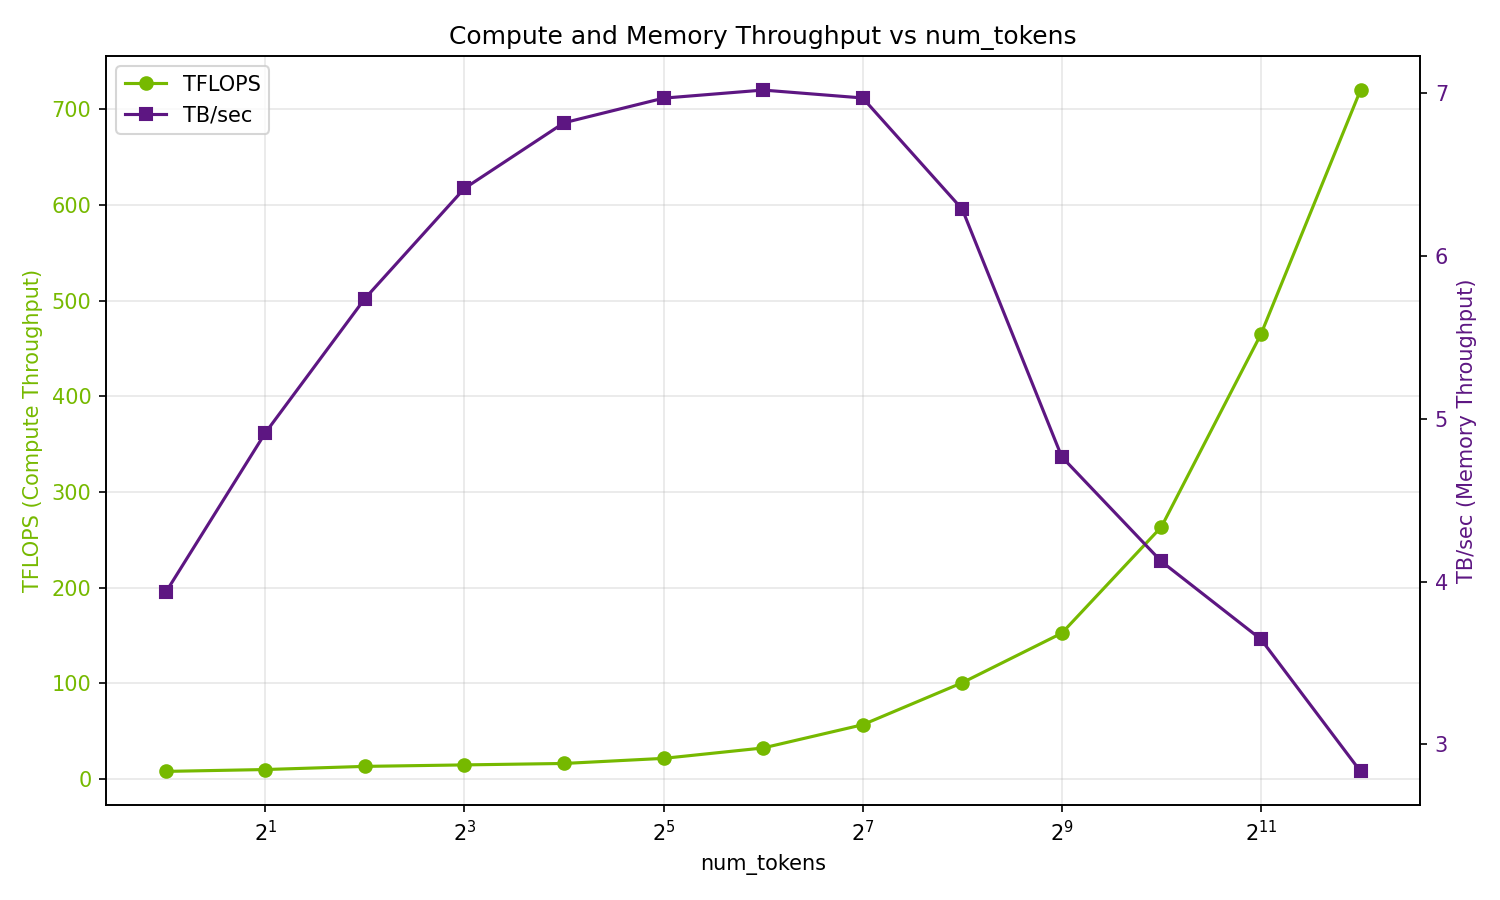
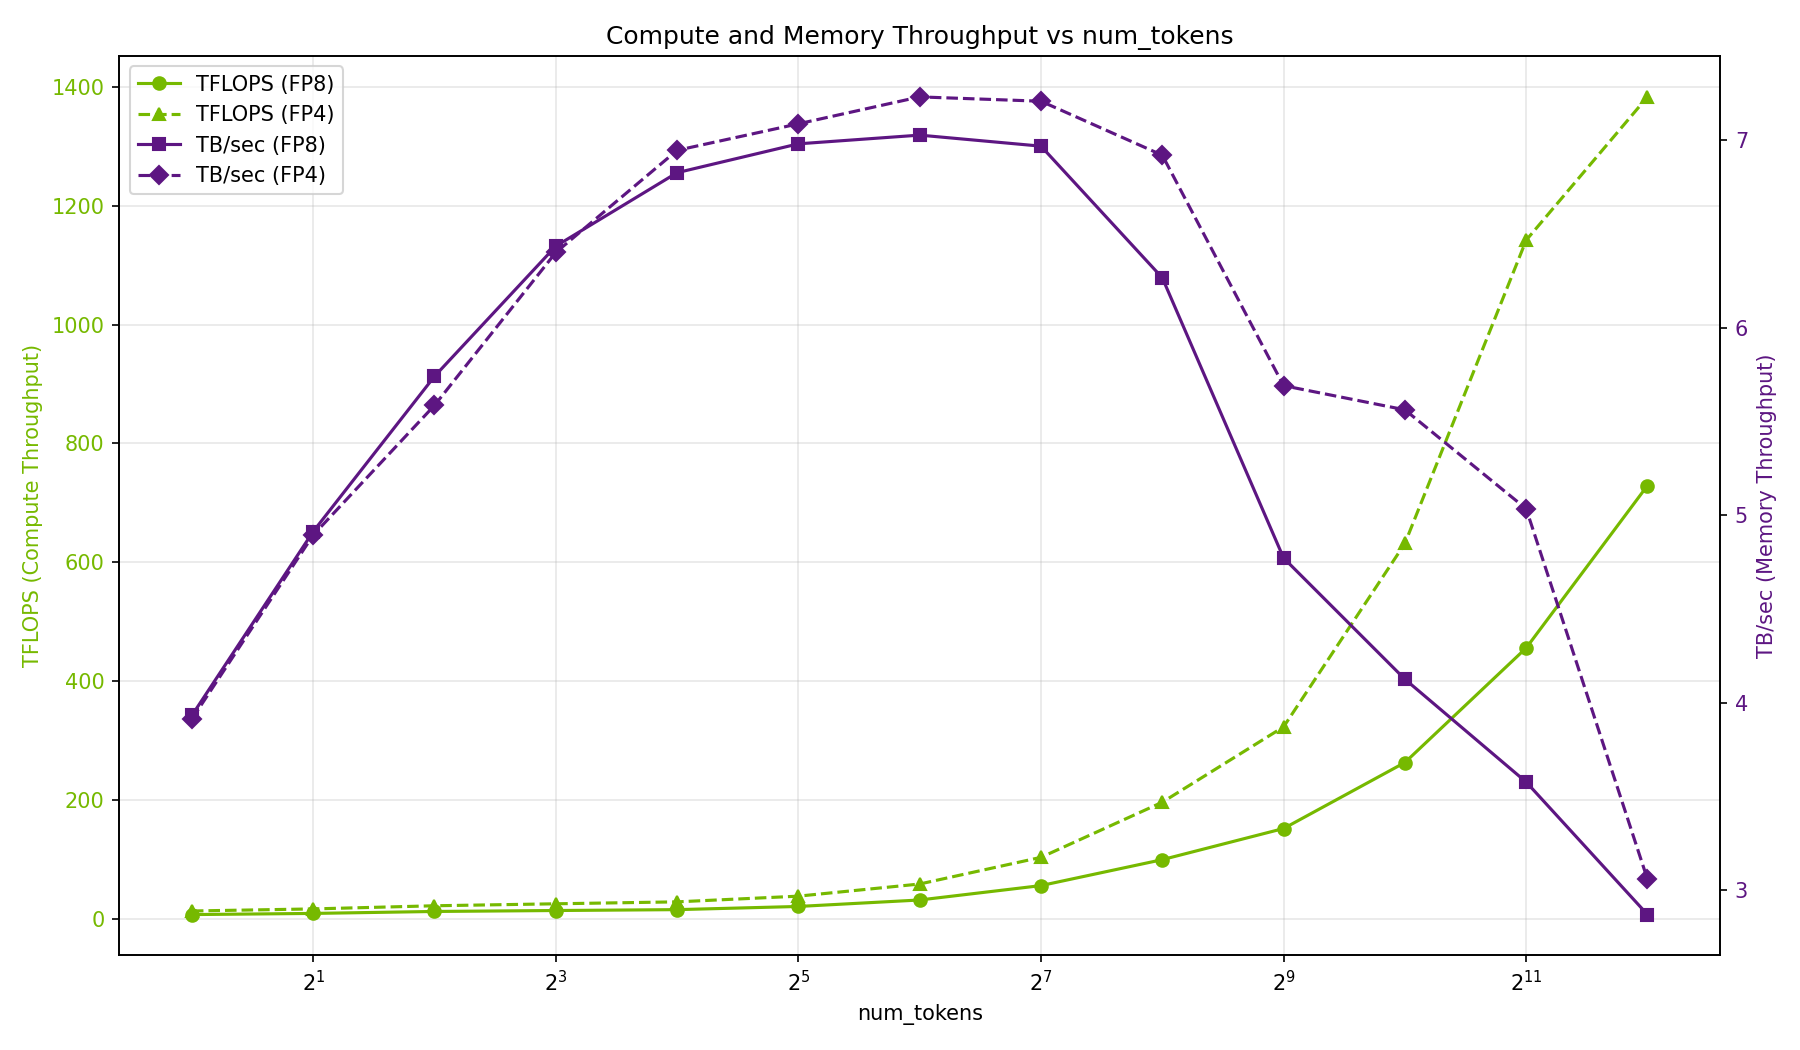
wip

diff --git a/plot_throughput_combined.py b/plot_throughput_combined.py
@@ -1,0 +1,73 @@
+#!/usr/bin/env python3
+"""Plot memory bandwidth comparison between CUTLASS and TRT-LLM backends."""
+
+import pandas as pd
+import matplotlib.pyplot as plt
+
+# Read the CSV files
+df_cutlass = pd.read_csv("ml3_moe_cutlass_out.csv")
+df_trtllm = pd.read_csv("ml3_moe_out.csv")
+
+# Filter CUTLASS data by cutlass_variant
+df_cutlass_fp8 = df_cutlass[df_cutlass["cutlass_variant"] == "fp8"].copy()
+df_cutlass_nvfp4 = df_cutlass[df_cutlass["cutlass_variant"] == "nvfp4"].copy()
+
+# Filter TRT-LLM data by routine
+df_trtllm_fp8 = df_trtllm[df_trtllm["routine"] == "trtllm_fp8_block_scale_moe"].copy()
+df_trtllm_fp4 = df_trtllm[df_trtllm["routine"] == "trtllm_fp4_block_scale_moe"].copy()
+
+# Extract num_tokens (column index 29)
+num_tokens_cutlass_fp8 = df_cutlass_fp8.iloc[:, 29].astype(int)
+num_tokens_cutlass_nvfp4 = df_cutlass_nvfp4.iloc[:, 29].astype(int)
+num_tokens_trtllm_fp8 = df_trtllm_fp8.iloc[:, 29].astype(int)
+num_tokens_trtllm_fp4 = df_trtllm_fp4.iloc[:, 29].astype(int)
+
+# Filter to only include num_tokens <= 1024
+mask_cutlass_fp8 = num_tokens_cutlass_fp8 <= 1024
+mask_cutlass_nvfp4 = num_tokens_cutlass_nvfp4 <= 1024
+mask_trtllm_fp8 = num_tokens_trtllm_fp8 <= 1024
+mask_trtllm_fp4 = num_tokens_trtllm_fp4 <= 1024
+
+# Create figure
+fig, ax = plt.subplots(figsize=(12, 7))
+
+# Colors for backends
+color_cutlass = (118/255, 185/255, 0/255)  # green
+color_trtllm = (93/255, 22/255, 130/255)   # purple
+
+# CUTLASS FP8 - solid line with circles
+ax.plot(num_tokens_cutlass_fp8[mask_cutlass_fp8], 
+        df_cutlass_fp8["tb_per_sec"][mask_cutlass_fp8], 
+        color=color_cutlass, marker="o", linestyle="-", 
+        label="CUTLASS FP8")
+
+# CUTLASS NVFP4 - dashed line with triangles
+ax.plot(num_tokens_cutlass_nvfp4[mask_cutlass_nvfp4], 
+        df_cutlass_nvfp4["tb_per_sec"][mask_cutlass_nvfp4], 
+        color=color_cutlass, marker="^", linestyle="--", 
+        label="CUTLASS NVFP4")
+
+# TRT-LLM FP8 - solid line with squares
+ax.plot(num_tokens_trtllm_fp8[mask_trtllm_fp8], 
+        df_trtllm_fp8["tb_per_sec"][mask_trtllm_fp8], 
+        color=color_trtllm, marker="s", linestyle="-", 
+        label="TensorRT-LLM FP8")
+
+# TRT-LLM FP4 - dashed line with diamonds
+ax.plot(num_tokens_trtllm_fp4[mask_trtllm_fp4], 
+        df_trtllm_fp4["tb_per_sec"][mask_trtllm_fp4], 
+        color=color_trtllm, marker="D", linestyle="--", 
+        label="TensorRT-LLM FP4")
+
+ax.set_xlabel("num_tokens")
+ax.set_ylabel("TB/sec (Memory Throughput)")
+ax.set_xscale("log", base=2)
+ax.legend(loc="upper right")
+ax.grid(True, alpha=0.3)
+
+plt.title("Memory Bandwidth: CUTLASS vs TensorRT-LLM (num_tokens <= 1024)")
+plt.tight_layout()
+plt.savefig("throughput_combined_plot.png", dpi=150)
+plt.show()
+
+print("Plot saved to throughput_combined_plot.png")

diff --git a/plot_throughput_cutlass.py b/plot_throughput_cutlass.py
@@ -1,0 +1,61 @@
+#!/usr/bin/env python3
+"""Plot compute and memory throughput from CUTLASS benchmark results."""
+
+import pandas as pd
+import matplotlib.pyplot as plt
+
+# Read the CSV file
+df = pd.read_csv("ml3_moe_cutlass_out.csv")
+
+# Filter data by cutlass_variant
+df_fp8 = df[df["cutlass_variant"] == "fp8"].copy()
+df_nvfp4 = df[df["cutlass_variant"] == "nvfp4"].copy()
+
+# Extract relevant columns (num_tokens appears multiple times, use iloc[:, 29])
+num_tokens_fp8 = df_fp8.iloc[:, 29].astype(int)
+num_tokens_nvfp4 = df_nvfp4.iloc[:, 29].astype(int)
+
+# Create figure with dual y-axes
+fig, ax1 = plt.subplots(figsize=(12, 7))
+
+# Colors for the two metrics
+color_tflops = (118/255, 185/255, 0/255)  # RGB 118/185/0 (green)
+color_tb = (93/255, 22/255, 130/255)  # RGB 93/22/130 (purple)
+
+# Plot TFLOPS on left y-axis
+ax1.set_xlabel("num_tokens")
+ax1.set_ylabel("TFLOPS (Compute Throughput)", color=color_tflops)
+# FP8 - solid line with circles
+line1 = ax1.plot(num_tokens_fp8, df_fp8["tflops"], color=color_tflops, 
+                  marker="o", linestyle="-", label="TFLOPS (FP8)")
+# NVFP4 - dashed line with triangles
+line2 = ax1.plot(num_tokens_nvfp4, df_nvfp4["tflops"], color=color_tflops, 
+                  marker="^", linestyle="--", label="TFLOPS (NVFP4)")
+ax1.tick_params(axis="y", labelcolor=color_tflops)
+ax1.set_xscale("log", base=2)
+
+# Create second y-axis for memory throughput
+ax2 = ax1.twinx()
+ax2.set_ylabel("TB/sec (Memory Throughput)", color=color_tb)
+# FP8 - solid line with squares
+line3 = ax2.plot(num_tokens_fp8, df_fp8["tb_per_sec"], color=color_tb, 
+                  marker="s", linestyle="-", label="TB/sec (FP8)")
+# NVFP4 - dashed line with diamonds
+line4 = ax2.plot(num_tokens_nvfp4, df_nvfp4["tb_per_sec"], color=color_tb, 
+                  marker="D", linestyle="--", label="TB/sec (NVFP4)")
+ax2.tick_params(axis="y", labelcolor=color_tb)
+
+# Add title and legend
+plt.title("CUTLASS: Compute and Memory Throughput vs num_tokens")
+lines = line1 + line2 + line3 + line4
+labels = [l.get_label() for l in lines]
+ax1.legend(lines, labels, loc="upper left")
+
+# Add grid
+ax1.grid(True, alpha=0.3)
+
+plt.tight_layout()
+plt.savefig("throughput_cutlass_plot.png", dpi=150)
+plt.show()
+
+print("Plot saved to throughput_plot.png")

diff --git a/plot_throughput_trtllm_gen.py b/plot_throughput_trtllm_gen.py
@@ -1,0 +1,61 @@
+#!/usr/bin/env python3
+"""Plot compute and memory throughput from benchmark results."""
+
+import pandas as pd
+import matplotlib.pyplot as plt
+
+# Read the CSV file
+df = pd.read_csv("ml3_moe_out.csv")
+
+# Filter data by routine
+df_fp8 = df[df["routine"] == "trtllm_fp8_block_scale_moe"].copy()
+df_fp4 = df[df["routine"] == "trtllm_fp4_block_scale_moe"].copy()
+
+# Extract relevant columns (num_tokens appears multiple times, use iloc[:, 29])
+num_tokens_fp8 = df_fp8.iloc[:, 29].astype(int)
+num_tokens_fp4 = df_fp4.iloc[:, 29].astype(int)
+
+# Create figure with dual y-axes
+fig, ax1 = plt.subplots(figsize=(12, 7))
+
+# Colors for the two metrics
+color_tflops = (118/255, 185/255, 0/255)  # RGB 118/185/0 (green)
+color_tb = (93/255, 22/255, 130/255)  # RGB 93/22/130 (purple)
+
+# Plot TFLOPS on left y-axis
+ax1.set_xlabel("num_tokens")
+ax1.set_ylabel("TFLOPS (Compute Throughput)", color=color_tflops)
+# FP8 - solid line with circles
+line1 = ax1.plot(num_tokens_fp8, df_fp8["tflops"], color=color_tflops, 
+                  marker="o", linestyle="-", label="TFLOPS (FP8)")
+# FP4 - dashed line with triangles
+line2 = ax1.plot(num_tokens_fp4, df_fp4["tflops"], color=color_tflops, 
+                  marker="^", linestyle="--", label="TFLOPS (FP4)")
+ax1.tick_params(axis="y", labelcolor=color_tflops)
+ax1.set_xscale("log", base=2)
+
+# Create second y-axis for memory throughput
+ax2 = ax1.twinx()
+ax2.set_ylabel("TB/sec (Memory Throughput)", color=color_tb)
+# FP8 - solid line with squares
+line3 = ax2.plot(num_tokens_fp8, df_fp8["tb_per_sec"], color=color_tb, 
+                  marker="s", linestyle="-", label="TB/sec (FP8)")
+# FP4 - dashed line with diamonds
+line4 = ax2.plot(num_tokens_fp4, df_fp4["tb_per_sec"], color=color_tb, 
+                  marker="D", linestyle="--", label="TB/sec (FP4)")
+ax2.tick_params(axis="y", labelcolor=color_tb)
+
+# Add title and legend
+plt.title("Compute and Memory Throughput vs num_tokens")
+lines = line1 + line2 + line3 + line4
+labels = [l.get_label() for l in lines]
+ax1.legend(lines, labels, loc="upper left")
+
+# Add grid
+ax1.grid(True, alpha=0.3)
+
+plt.tight_layout()
+plt.savefig("throughput_plot.png", dpi=150)
+plt.show()
+
+print("Plot saved to throughput_plot.png")
